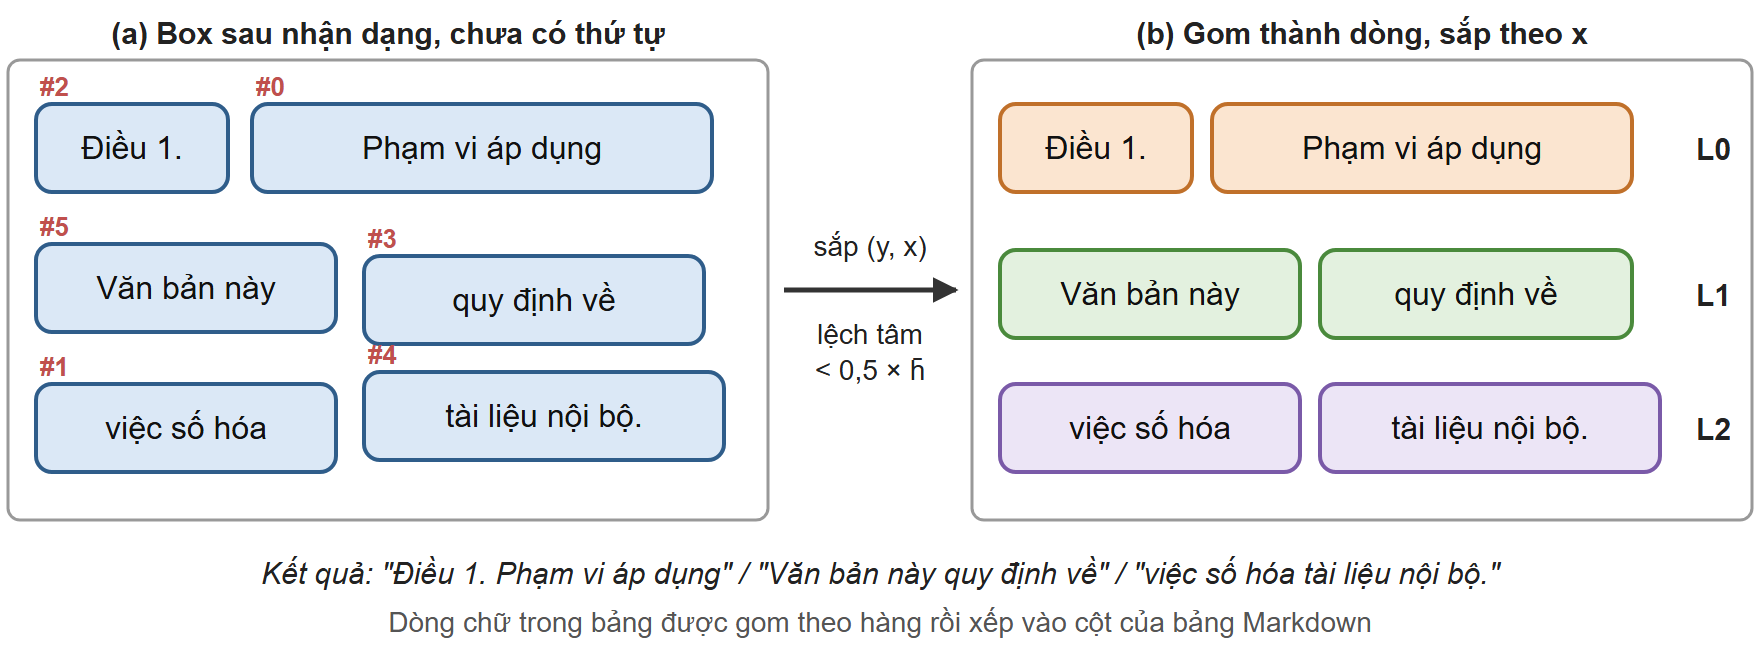
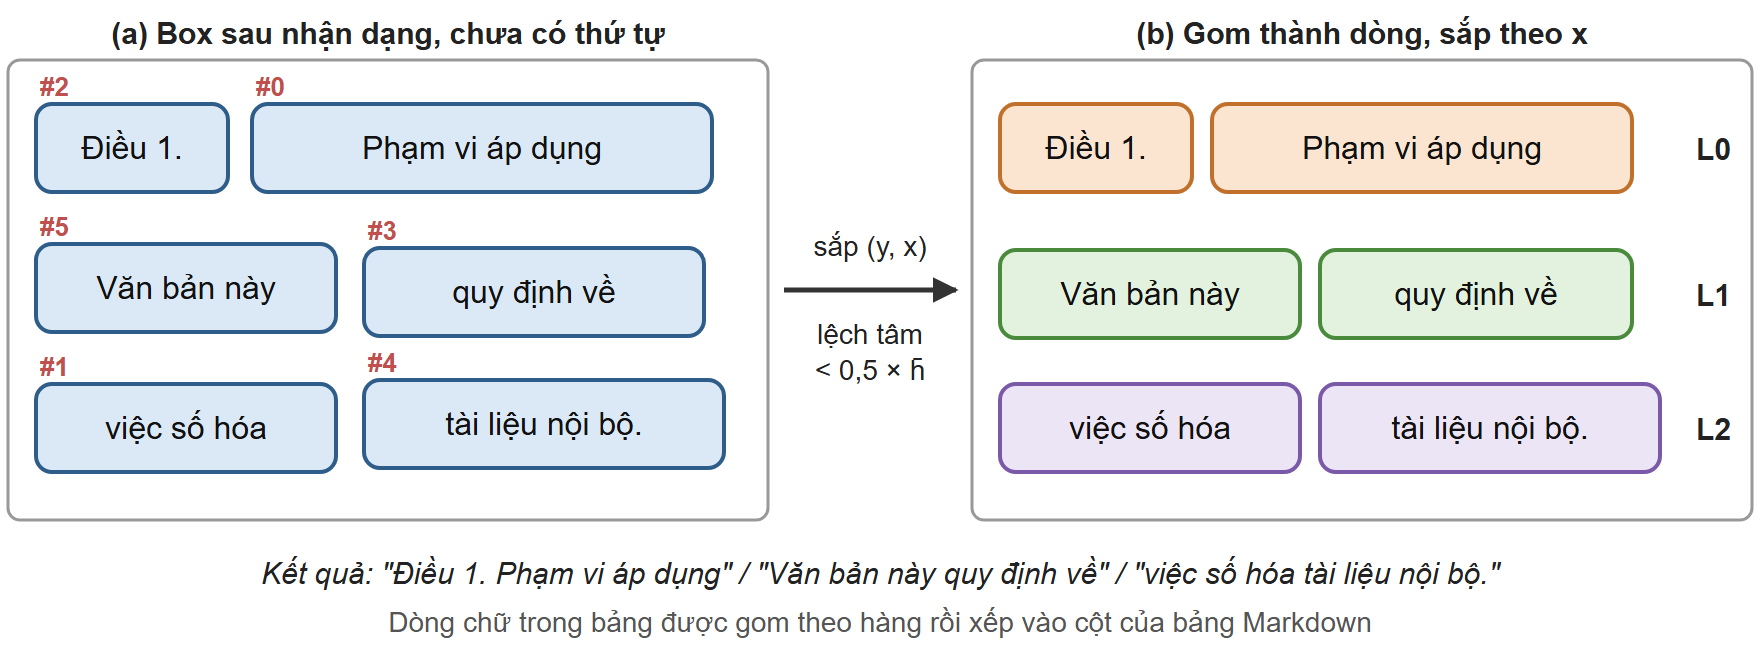
Hình vẽ báo cáo: DFD cân bằng với biểu đồ ngữ cảnh, phân tầng đúng chiều phụ thuộc, biểu đồ hoạt động đủ nút quyết định
- Hình 2-4: thêm tiến trình 6.0 Tra cứu kết quả, tác nhân Hệ thống nguồn và Quản trị viên, luồng 3.0 -> 5.0, errors/
- Hình 2-5: nút quyết định loại vùng, nút hợp nhánh, nhánh PDF hỏng
- Hình 2-6: Kafka và MinIO cùng ở tầng hạ tầng dưới cùng
- Hình 1-2 (mới có mã nguồn), 1-5, 2-10, 2-15, 2-16, 3-1, 3-3: sửa nhãn, bố cục
- AGENT_HANDOFF: mục 7b13

diff --git a/docs/hinh_ve/fig2_5.html b/docs/hinh_ve/fig2_5.html
@@ -1,55 +1,75 @@
 <!doctype html><html><head><meta charset="utf-8"><script src="dg.js"></script></head><body>
 <script>
-const g = new Dg(880, 896);
+const g = new Dg(880, 1100);
 const lanes = [['Người dùng /', 'Web UI'], ['NiFi +', 'Preprocess'], ['Layout +', 'PaddleOCR'], ['VietOCR'], ['Reconstruct', '+ Merge']];
 const LW = 176, cx = i => i * LW + LW / 2;
 lanes.forEach((l, i) => {
-  g.raw(`<rect x="${i * LW + 1}" y="1" width="${LW - 2}" height="892" fill="${i % 2 ? '#fafafa' : '#fff'}" stroke="#bbb" stroke-width="1.5"/>`);
+  g.raw(`<rect x="${i * LW + 1}" y="1" width="${LW - 2}" height="1096" fill="${i % 2 ? '#fafafa' : '#fff'}" stroke="#bbb" stroke-width="1.5"/>`);
   g.raw(`<rect x="${i * LW + 1}" y="1" width="${LW - 2}" height="54" fill="#e8e8e8" stroke="#bbb" stroke-width="1.5"/>`);
   g.text(cx(i), l.length > 1 ? 24 : 34, l, { fs: 15, a: 'middle', bold: true, lh: 19 });
 });
-const N = (i, y, t, h = 54) => g.box(cx(i) - 74, y, 148, h, t, { c: 'yellow', fs: 14, title: false, lh: 17 });
-// làn 0
-g.raw(`<circle cx="${cx(0)}" cy="80" r="10" fill="#111"/>`);
-const n1 = N(0, 104, ['Chọn, tải', 'lên PDF']);
-g.line([[cx(0), 90], [cx(0), n1.y - 2]]);
-const dy = 214;
-g.raw(`<path d="M${cx(0)},${dy - 26} l26,26 l-26,26 l-26,-26 z" fill="#fff" stroke="#333" stroke-width="2"/>`);
-g.line([[cx(0), n1.b], [cx(0), dy - 28]]);
-g.text(cx(0) + 32, dy - 8, 'hợp lệ?', { fs: 14 });
-g.line([[cx(0) - 26, dy], [26, dy], [26, 262]]);
-g.text(24, dy - 8, 'không', { fs: 14 });
-g.raw(`<circle cx="26" cy="274" r="11" fill="#fff" stroke="#111" stroke-width="2"/><circle cx="26" cy="274" r="6" fill="#111"/>`);
-g.text(6, 304, 'lỗi 400/413', { fs: 14 });
-const n2 = N(0, 330, ['Lưu', 'raw/<id>.pdf']);
-g.line([[cx(0), dy + 26], [cx(0), n2.y - 2]]);
-g.text(cx(0) + 6, dy + 46, 'có', { fs: 14 });
-// làn 1
-const n3 = N(1, 330, ['ListS3 phát hiện,', 'Fetch tệp']);
+const N = (i, y, t, h = 48) => g.box(cx(i) - 74, y, 148, h, t, { c: 'yellow', fs: 14, title: false, lh: 17 });
+// Nút quyết định / hợp nhánh (hình thoi), trả về các đỉnh
+const D = (x, y) => { g.raw(`<path d="M${x},${y - 26} l26,26 l-26,26 l-26,-26 z" fill="#fff" stroke="#333" stroke-width="2"/>`); return { x, y, t: y - 26, b: y + 26, l: x - 26, r: x + 26 }; };
+const fin = (x, y) => g.raw(`<circle cx="${x}" cy="${y}" r="12" fill="#fff" stroke="#111" stroke-width="2"/><circle cx="${x}" cy="${y}" r="7" fill="#111"/>`);
+const guard = (x, y, t, a = 'middle') => g.text(x, y, t, { fs: 13, a, halo: true, color: '#333' });
+// Làn 0: tải lên và kiểm tra đầu vào
+g.raw(`<circle cx="${cx(0)}" cy="76" r="10" fill="#111"/>`);
+const n1 = N(0, 100, ['Chọn, tải', 'lên PDF']);
+g.line([[cx(0), 86], [cx(0), n1.y - 2]]);
+const d1 = D(cx(0), 196);
+g.line([[cx(0), n1.b], [cx(0), d1.t - 2]]);
+g.text(d1.r + 6, 188, 'hợp lệ?', { fs: 14 });
+g.line([[d1.l, 196], [26, 196], [26, 244]]);
+guard(6, 188, '[không]', 'start');
+fin(26, 258);
+g.text(6, 290, 'lỗi 400/413', { fs: 14 });
+const n2 = N(0, 318, ['Lưu', 'raw/<id>.pdf']);
+g.line([[cx(0), d1.b], [cx(0), n2.y - 2]]);
+guard(cx(0) + 6, 250, '[có]', 'start');
+// Làn 1: NiFi tiếp nhận, gọi tiền xử lý
+const n3 = N(1, 318, ['ListS3 phát hiện,', 'Fetch tệp']);
 g.line([[n2.r, n2.cy], [n3.x - 2, n3.cy]]);
-const n4 = N(1, 416, ['POST /process:', 'PDF → PNG', 'từng trang'], 64);
+const n4 = N(1, 396, ['POST /process:', 'PDF → PNG', 'từng trang'], 60);
 g.line([[cx(1), n3.b], [cx(1), n4.y - 2]]);
-const n5 = N(1, 512, ['Lưu page_N.png,', 'gửi image-arrived']);
-g.line([[cx(1), n4.b], [cx(1), n5.y - 2]]);
-// làn 2
-const n6 = N(2, 512, ['YOLO phát hiện', 'vùng bố cục']);
+const d2 = D(cx(1), 500);
+g.line([[cx(1), n4.b], [cx(1), d2.t - 2]]);
+// PDF hỏng: NiFi ghi errors/<id>.json, giao diện hiện trạng thái Lỗi
+const nE = N(0, 476, ['Thấy "Lỗi" + lý do', '(errors/<id>.json)']);
+g.line([[d2.l, 500], [nE.r + 2, 500]]);
+guard((d2.l + nE.r) / 2, 492, '[PDF hỏng]');
+g.line([[cx(0), nE.b], [cx(0), 546]]);
+fin(cx(0), 560);
+const n5 = N(1, 554, ['Lưu page_N.png,', 'gửi image-arrived']);
+g.line([[cx(1), d2.b], [cx(1), n5.y - 2]]);
+guard(cx(1) + 6, 544, '[đọc được]', 'start');
+// Làn 2: bố cục, cắt dòng
+const n6 = N(2, 554, ['YOLO phát hiện', 'vùng bố cục']);
 g.line([[n5.r, n5.cy], [n6.x - 2, n6.cy]]);
-const n7 = N(2, 614, ['DBNet cắt dòng;', 'lưu hình, bảng']);
+const n7 = N(2, 632, ['DBNet cắt dòng;', 'lưu hình, bảng']);
 g.line([[cx(2), n6.b], [cx(2), n7.y - 2]]);
-// làn 3, 4
-const n8 = N(3, 614, ['Nhận dạng', 'theo lô']);
-g.line([[n7.r, n7.cy], [n8.x - 2, n8.cy]]);
-const n9 = N(4, 614, ['Gom box', 'theo trang']);
-g.line([[n8.r, n8.cy], [n9.x - 2, n9.cy]]);
-g.line([[cx(2) + 40, n7.y], [cx(2) + 40, 590], [cx(4), 590], [cx(4), n9.y - 2]], { dash: true, color: '#c0702a' });
-g.text(cx(3), 580, ['hình, bảng, trang rỗng:', 'gửi thẳng ocr-completed'], { fs: 13, a: 'middle', color: '#c0702a', halo: true, lh: 15 });
-const n10 = N(4, 700, ['Gom dòng, ghi', 'text/ + JSON']);
+const d3 = D(cx(2), 722);
+g.line([[cx(2), n7.b], [cx(2), d3.t - 2]]);
+g.text(d3.l - 6, 718, 'loại', { fs: 13, a: 'end' });
+g.text(d3.l - 6, 734, 'vùng?', { fs: 13, a: 'end' });
+// Làn 3: nhận dạng dòng chữ
+const n8 = N(3, 698, ['Nhận dạng', 'theo lô']);
+g.line([[d3.r, 722], [n8.x - 2, 722]]);
+guard((d3.r + n8.x) / 2, 742, '[dòng chữ]');
+// Làn 4: hợp nhánh, tái cấu trúc, ghép
+const m = D(cx(4), 800);
+g.line([[n8.r, 722], [cx(4), 722], [cx(4), m.t - 2]]);
+g.line([[cx(2), d3.b], [cx(2), 800], [m.l - 2, 800]]);
+guard(600, 792, '[hình, bảng, trang rỗng]');
+const n9 = N(4, 852, ['Gom box', 'theo trang']);
+g.line([[cx(4), m.b], [cx(4), n9.y - 2]]);
+const n10 = N(4, 926, ['Gom dòng, ghi', 'text/ + JSON']);
 g.line([[cx(4), n9.b], [cx(4), n10.y - 2]]);
-const n11 = N(4, 780, ['Ghép trang', '→ final/<id>/']);
+const n11 = N(4, 1000, ['Ghép trang', '→ final/<id>/']);
 g.line([[cx(4), n10.b], [cx(4), n11.y - 2]]);
-const n12 = N(0, 780, ['Xem, tải', 'kết quả']);
+const n12 = N(0, 1000, ['Xem, tải', 'kết quả']);
 g.line([[n11.x, n11.cy], [n12.r + 2, n12.cy]], { label: 'merge-completed; Web UI đọc final/', at: [440, n11.cy - 8], lfs: 14 });
-g.line([[cx(0), n12.b], [cx(0), 854]]);
-g.raw(`<circle cx="${cx(0)}" cy="869" r="12" fill="#fff" stroke="#111" stroke-width="2"/><circle cx="${cx(0)}" cy="869" r="7" fill="#111"/>`);
+g.line([[cx(0), n12.b], [cx(0), 1064]]);
+fin(cx(0), 1078);
 g.render();
 </script></body></html>

diff --git a/docs/hinh_ve/fig2_16.html b/docs/hinh_ve/fig2_16.html
@@ -1,43 +1,46 @@
 <!doctype html><html><head><meta charset="utf-8"><script src="dg.js"></script></head><body>
 <script>
-const g = new Dg(880, 470);
-g.box(4, 4, 872, 462, [], { c: 'white', rx: 8, stroke: '#888', sw: 1.5 });
+const g = new Dg(880, 534);
+g.box(4, 4, 872, 526, [], { c: 'white', rx: 8, stroke: '#888', sw: 1.5 });
 g.box(4, 4, 872, 44, [], { c: 'blue', rx: 8, fill: '#2f5d8a', stroke: '#2f5d8a' });
 g.text(22, 32, 'OCR tiếng Việt', { fs: 18, bold: true, color: '#fff' });
-// Cột trái: tải lên + danh sách
-g.box(20, 64, 330, 78, ['Kéo thả hoặc chọn tệp PDF', '(một hoặc nhiều tệp)'], { c: 'gray', dash: true, fs: 16, title: false, fill: '#f7f9fc' });
-g.text(24, 172, 'Tài liệu', { fs: 17, bold: true });
-g.box(270, 154, 80, 28, 'Làm mới', { c: 'white', fs: 14, rx: 14, stroke: '#2f5d8a' });
-const cols = [24, 168, 286];
-['Tên', 'Trạng thái', 'Tiến độ'].forEach((h, i) => g.text(cols[i], 210, h, { fs: 15, bold: true, color: '#555' }));
-g.raw(`<line x1="20" y1="220" x2="350" y2="220" stroke="#ccc" stroke-width="1.5"/>`);
+// Ô tải lên nằm ngang phía trên, bên dưới chia hai cột như giao diện thật (Hình 3-3)
+g.box(20, 62, 840, 52, 'Kéo thả tệp PDF vào đây hoặc bấm để chọn (có thể chọn nhiều tệp)', { c: 'gray', dash: true, fs: 16, title: false, fill: '#f7f9fc' });
+const D = 64;  // các phần bên dưới dời xuống nhường chỗ cho ô tải lên
+// Cột trái: danh sách tài liệu
+g.box(20, 64 + D, 334, 390, [], { c: 'white', rx: 6, stroke: '#bbb', sw: 1.5 });
+g.text(36, 172 + D - 76, 'Tài liệu', { fs: 17, bold: true });
+g.box(262, 154 + D - 76, 80, 28, 'Làm mới', { c: 'white', fs: 14, rx: 14, stroke: '#2f5d8a' });
+const cols = [36, 170, 302];
+['Tên', 'Trạng thái', 'Tiến độ'].forEach((h, i) => g.text(cols[i], 210 + D - 76, h, { fs: 15, bold: true, color: '#555' }));
+g.raw(`<line x1="32" y1="${220 + D - 76}" x2="342" y2="${220 + D - 76}" stroke="#ccc" stroke-width="1.5"/>`);
 const R = [['hop_dong_01', 'Hoàn tất', '3/3', '#2e7d32'], ['cong_van_12', 'Đang nhận dạng', '1/2', '#c0702a'], ['hoa_don_07', 'Đang phân tích', '0/1', '#2f5d8a'], ['bao_cao_q3', 'Đang chờ NiFi', '–', '#777'], ['pdf_hong', 'Lỗi', '–', '#c0504d']];
 R.forEach((r, i) => {
-  const y = 250 + i * 40;
-  if (i === 0) g.raw(`<rect x="20" y="${y - 24}" width="330" height="36" fill="#e8f0fb"/>`);
+  const y = 250 + D - 76 + i * 40;
+  if (i === 0) g.raw(`<rect x="32" y="${y - 24}" width="310" height="36" fill="#e8f0fb"/>`);
   g.text(cols[0], y, r[0], { fs: 15 });
   g.text(cols[1], y, r[1], { fs: 14, color: r[3], bold: true });
   g.text(cols[2], y, r[2], { fs: 15 });
-  g.raw(`<line x1="20" y1="${y + 14}" x2="350" y2="${y + 14}" stroke="#eee" stroke-width="1"/>`);
+  g.raw(`<line x1="32" y1="${y + 14}" x2="342" y2="${y + 14}" stroke="#eee" stroke-width="1"/>`);
 });
 // Cột phải: kết quả
-g.box(370, 64, 494, 390, [], { c: 'white', rx: 6, stroke: '#bbb', sw: 1.5 });
-g.text(386, 96, 'Kết quả: hop_dong_01', { fs: 16, bold: true });
-g.box(574, 76, 84, 30, 'Trình bày', { c: 'blue', fs: 13, rx: 4, fill: '#2f5d8a', color: '#fff' });
-g.box(658, 76, 70, 30, 'Văn bản', { c: 'white', fs: 13, rx: 4 });
-g.box(736, 76, 38, 30, '.md', { c: 'blue', fs: 13, rx: 4 });
-g.box(777, 76, 44, 30, '.json', { c: 'white', fs: 13, rx: 4, stroke: '#2f5d8a' });
-g.box(824, 76, 34, 30, '.txt', { c: 'white', fs: 13, rx: 4, stroke: '#2f5d8a' });
-g.text(386, 140, 'TRANG 1', { fs: 13, color: '#777' });
-g.text(386, 166, 'CỘNG HÒA XÃ HỘI CHỦ NGHĨA VIỆT NAM', { fs: 15, bold: true });
-g.text(386, 192, 'HỢP ĐỒNG DỊCH VỤ', { fs: 15, bold: true });
-g.text(386, 218, 'Số: 01/2026/HĐDV', { fs: 15 });
-g.text(386, 244, ['Căn cứ Bộ luật Dân sự ngày 24/11/2015 …'], { fs: 15 });
-g.text(386, 274, '▸ Xem ảnh bảng gốc', { fs: 13, color: '#777' });
-const tx = 386, ty = 286, tw = [150, 150, 150];
+g.box(370, 64 + D, 494, 390, [], { c: 'white', rx: 6, stroke: '#bbb', sw: 1.5 });
+g.text(386, 96 + D, 'Kết quả: hop_dong_01', { fs: 16, bold: true });
+g.box(574, 76 + D, 84, 30, 'Trình bày', { c: 'blue', fs: 13, rx: 4, fill: '#2f5d8a', color: '#fff' });
+g.box(658, 76 + D, 70, 30, 'Văn bản', { c: 'white', fs: 13, rx: 4 });
+g.box(736, 76 + D, 38, 30, '.md', { c: 'blue', fs: 13, rx: 4 });
+g.box(777, 76 + D, 44, 30, '.json', { c: 'white', fs: 13, rx: 4, stroke: '#2f5d8a' });
+g.box(824, 76 + D, 34, 30, '.txt', { c: 'white', fs: 13, rx: 4, stroke: '#2f5d8a' });
+g.text(386, 140 + D, 'TRANG 1', { fs: 13, color: '#777' });
+g.text(386, 166 + D, 'CỘNG HÒA XÃ HỘI CHỦ NGHĨA VIỆT NAM', { fs: 15, bold: true });
+g.text(386, 192 + D, 'HỢP ĐỒNG DỊCH VỤ', { fs: 15, bold: true });
+g.text(386, 218 + D, 'Số: 01/2026/HĐDV', { fs: 15 });
+g.text(386, 244 + D, ['Căn cứ Bộ luật Dân sự ngày 24/11/2015 …'], { fs: 15 });
+g.text(386, 274 + D, '▸ Xem ảnh bảng gốc', { fs: 13, color: '#777' });
+const tx = 386, ty = 286 + D, tw = [150, 150, 150];
 ['Hạng mục', 'Đơn giá', 'Thành tiền'].forEach((h, i) => g.box(tx + i * 154, ty, tw[i], 30, h, { c: 'blue', fs: 14, rx: 0, sw: 1, bold: true }));
 [['Số hóa tài liệu', '2.000', '10.000.000'], ['Lưu trữ', '500', '2.500.000']].forEach((r, k) => r.forEach((c, i) => g.box(tx + i * 154, ty + 30 + k * 30, tw[i], 30, c, { c: 'white', fs: 14, rx: 0, sw: 1 })));
-g.text(386, 400, 'TRANG 2', { fs: 13, color: '#777' });
-g.text(386, 426, 'Điều 1. Phạm vi …', { fs: 15 });
+g.text(386, 400 + D, 'TRANG 2', { fs: 13, color: '#777' });
+g.text(386, 426 + D, 'Điều 1. Phạm vi …', { fs: 15 });
 g.render();
 </script></body></html>

diff --git a/docs/hinh_ve/fig2_4.html b/docs/hinh_ve/fig2_4.html
@@ -1,29 +1,45 @@
 <!doctype html><html><head><meta charset="utf-8"><script src="dg.js"></script></head><body>
 <script>
-const g = new Dg(880, 560);
-// Tiến trình xếp dọc, kho D1 bên phải, tác nhân bên trái
-const P = [['1.0', 'Tiền xử lý'], ['2.0', 'Phân tích bố cục'], ['3.0', 'Cắt dòng chữ'], ['4.0', 'Nhận dạng chữ'], ['5.0', 'Tái cấu trúc', 'và ghép trang']];
-const cx = 360, Y = i => 56 + i * 108;
-const pr = P.map((t, i) => g.ellipse(cx, Y(i), 112, 40, t, { c: 'green', fs: 15 }));
+const g = new Dg(880, 660);
+// Tiến trình xếp dọc, kho D1 bên phải, tác nhân bên trái; tác nhân và luồng vào/ra cân bằng với biểu đồ ngữ cảnh (Hình 2-1)
+const cx = 404, R = 112;
+const p6 = g.ellipse(cx, 60, R, 36, ['6.0', 'Tra cứu kết quả'], { c: 'green', fs: 15 });
+const P = [['1.0', 'Tiếp nhận và', 'tiền xử lý'], ['2.0', 'Phân tích bố cục'], ['3.0', 'Cắt dòng chữ'], ['4.0', 'Nhận dạng chữ'], ['5.0', 'Tái cấu trúc', 'và ghép trang']];
+const Y = [170, 274, 378, 482, 586];
+const pr = P.map((t, i) => g.ellipse(cx, Y[i], R, t.length > 2 ? 40 : 36, t, { c: 'green', fs: 15 }));
 const flow = ['trang mới', 'vùng bố cục', 'khóa ảnh dòng', 'chữ từng dòng'];
 for (let i = 0; i < 4; i++) {
   g.line([[cx, pr[i].b], [cx, pr[i + 1].y - 1]]);
   g.text(cx + 10, (pr[i].b + pr[i + 1].y) / 2 + 5, flow[i], { fs: 15, halo: true });
 }
-const u = g.box(4, 22, 170, 66, ['Người dùng /', 'hệ thống nguồn'], { c: 'gray', fs: 15, title: false });
-g.line([[u.r, 56], [pr[0].x - 1, 56]], { label: 'tệp PDF', at: [211, 46], lfs: 15 });
-const dst = g.box(4, 404, 170, 60, 'Hệ thống đích', { c: 'gray', fs: 15 });
-g.line([[pr[4].x + 6, Y(4) - 8], [dst.r + 1, 434]]);
-g.text(89, 488, ['kết quả số hóa,', 'sự kiện hoàn thành'], { fs: 14, a: 'middle', lh: 17 });
+// Điểm trên viền elip theo góc (độ, 0 = bên phải, chiều kim đồng hồ)
+const on = (e, deg) => [Math.round(e.cx + e.rx * Math.cos(deg * Math.PI / 180)), Math.round(e.cy + e.ry * Math.sin(deg * Math.PI / 180))];
+// Tác nhân ngoài
+const user = g.box(4, 92, 146, 52, 'Người dùng', { c: 'gray', fs: 15 });
+g.line([on(p6, 160), [user.r + 2, 104]]);
+g.text(215, 64, 'trạng thái, kết quả', { fs: 14, a: 'middle', halo: true });
+g.line([[user.r, 132], on(pr[0], 190)]);
+g.text(210, 164, 'tệp PDF', { fs: 14, a: 'middle', halo: true });
+const src = g.box(4, 196, 146, 52, 'Hệ thống nguồn', { c: 'gray', fs: 15 });
+g.line([[src.r, 222], on(pr[0], 160)]);
+g.text(158, 240, 'tệp PDF (S3 API)', { fs: 14, halo: true });
+const adm = g.box(4, 300, 146, 52, 'Quản trị viên', { c: 'gray', fs: 15 });
+g.line([[adm.r, 326], on(pr[0], 125)]);
+g.text(262, 320, 'cấu hình, giám sát', { fs: 14, a: 'middle', halo: true });
+const dst = g.box(4, 560, 146, 52, 'Hệ thống đích', { c: 'gray', fs: 15 });
+g.line([[pr[4].x, 586], [dst.r + 2, 586]]);
+g.text(77, 632, ['Markdown/JSON/TXT,', 'sự kiện hoàn thành'], { fs: 14, a: 'middle', lh: 17 });
+// Vùng hình, bảng và trang rỗng đi thẳng từ 3.0 sang 5.0, không qua nhận dạng
+g.line([[pr[2].x, 378], [256, 378], [256, 560], on(pr[4], 218)]);
+g.text(248, 462, ['hình, bảng,', 'trang rỗng'], { fs: 14, a: 'end', lh: 17 });
 // Kho dữ liệu D1
-g.raw(`<rect x="660" y="14" width="216" height="532" fill="#fdf3d0" stroke="#b8921e" stroke-width="2"/><line x1="660" y1="62" x2="876" y2="62" stroke="#b8921e" stroke-width="2"/>`);
-g.text(768, 46, 'D1  MinIO data-lake', { fs: 16, a: 'middle', bold: true });
-['raw/', 'pic/', 'crop/', 'assets/', 'text/', 'preprocessed/', 'final/'].forEach((k, i) => g.text(680, 96 + i * 26, k, { fs: 15, mono: true }));
-const st = [['ảnh trang', 'w'], ['ảnh trang', 'r'], ['ảnh dòng, ảnh bảng/hình', 'w'], ['ảnh dòng', 'r'], ['văn bản, Markdown, JSON', 'w']];
-st.forEach(([t, dir], i) => {
-  const y = Y(i);
-  if (dir === 'w') g.line([[pr[i].r, y], [658, y]]); else g.line([[658, y], [pr[i].r + 1, y]]);
-  g.text(566, y - 9, t, { fs: 14, a: 'middle', halo: true });
+g.raw(`<rect x="690" y="14" width="186" height="632" fill="#fdf3d0" stroke="#b8921e" stroke-width="2"/><line x1="690" y1="62" x2="876" y2="62" stroke="#b8921e" stroke-width="2"/>`);
+g.text(783, 46, 'D1  MinIO data-lake', { fs: 16, a: 'middle', bold: true });
+['raw/', 'pic/', 'crop/', 'assets/', 'text/', 'preprocessed/', 'final/', 'errors/'].forEach((k, i) => g.text(708, 96 + i * 26, k, { fs: 15, mono: true }));
+const st = [[p6, 'trạng thái, kết quả', 'r'], [pr[0], 'PDF gốc, ảnh trang', 'w'], [pr[1], 'ảnh trang', 'r'], [pr[2], 'ảnh dòng, ảnh bảng/hình', 'w'], [pr[3], 'ảnh dòng', 'r'], [pr[4], 'văn bản, Markdown, JSON', 'w']];
+st.forEach(([e, t, dir]) => {
+  if (dir === 'w') g.line([[e.r, e.cy], [688, e.cy]]); else g.line([[688, e.cy], [e.r + 1, e.cy]]);
+  g.text(602, e.cy - 9, t, { fs: 14, a: 'middle', halo: true });
 });
 g.render();
 </script></body></html>

diff --git a/docs/hinh_ve/fig1_5.html b/docs/hinh_ve/fig1_5.html
@@ -2,26 +2,26 @@
 <script>
 const g = new Dg(880, 345);
 const pr = g.box(15, 128, 150, 76, ['Producer', 'paddleocr-worker'], { c: 'blue', fs: 17 });
-g.box(205, 38, 420, 232, [], { c: 'white', dash: true, rx: 10, fill: '#fbfbfb' });
-g.text(415, 66, 'Topic crop-completed (Kafka, KRaft)', { fs: 17, a: 'middle', bold: true });
+g.box(205, 38, 393, 232, [], { c: 'white', dash: true, rx: 10, fill: '#fbfbfb' });
+g.text(402, 66, 'Topic crop-completed (Kafka, KRaft)', { fs: 17, a: 'middle', bold: true });
 const rows = [{ n: 'P0', y: 96 }, { n: 'P1', y: 176 }];
 for (const r of rows) {
   g.text(226, r.y + 27, r.n, { fs: 17, bold: true });
   for (let i = 0; i < 6; i++) g.box(262 + i * 52, r.y, 46, 42, String(i), { c: i < 4 ? 'green' : 'gray', fs: 17, rx: 4 });
-  g.text(580, r.y + 27, '…', { fs: 18 });
+  g.text(572, r.y + 27, '…', { fs: 18 });
 }
-g.text(415, 254, 'offset tăng dần, lưu bền vững trên đĩa', { fs: 15, a: 'middle', italic: true });
+g.text(402, 254, 'offset tăng dần, lưu bền vững trên đĩa', { fs: 15, a: 'middle', italic: true });
 g.line([[pr.r, 166], [185, 166], [185, 117], [222, 117]]);
 g.text(185, 100, 'publish', { fs: 15, a: 'middle', halo: true });
 g.line([[185, 166], [185, 197], [222, 197]]);
-g.box(650, 62, 218, 200, [], { c: 'orange', dash: true, rx: 10, fill: '#fff8f1' });
-g.text(759, 88, 'Consumer group', { fs: 16, a: 'middle', bold: true });
-g.text(759, 108, 'vietocr-group', { fs: 16, a: 'middle' });
-const c1 = g.box(665, 124, 188, 50, 'vietocr-worker', { c: 'orange', fs: 16 });
-const c2 = g.box(665, 196, 188, 50, 'vietocr-worker-2', { c: 'orange', fs: 16 });
-g.line([[600, 117], [c1.x, 149]]);
-g.text(640, 182, 'poll, commit', { fs: 14, a: 'middle', halo: true });
-g.line([[600, 197], [c2.x, 221]]);
+g.box(672, 62, 196, 200, [], { c: 'orange', dash: true, rx: 10, fill: '#fff8f1' });
+g.text(770, 88, 'Consumer group', { fs: 16, a: 'middle', bold: true });
+g.text(770, 108, 'vietocr-group', { fs: 16, a: 'middle' });
+const c1 = g.box(686, 124, 168, 50, 'vietocr-worker', { c: 'orange', fs: 16 });
+const c2 = g.box(686, 196, 168, 50, 'vietocr-worker-2', { c: 'orange', fs: 16 });
+g.line([[592, 117], [c1.x, 149]]);
+g.text(635, 166, ['poll,', 'commit'], { fs: 14, a: 'middle', halo: true, lh: 16 });
+g.line([[592, 197], [c2.x, 221]]);
 g.text(440, 302, 'Trong một consumer group, mỗi partition chỉ giao cho một consumer; nhóm khác (ví dụ', { fs: 15, a: 'middle', italic: true });
 g.text(440, 324, 'reconstruct-group trên topic ocr-completed) đọc độc lập với offset riêng.', { fs: 15, a: 'middle', italic: true });
 g.render();

diff --git a/docs/hinh_ve/fig2_6.html b/docs/hinh_ve/fig2_6.html
@@ -1,22 +1,26 @@
 <!doctype html><html><head><meta charset="utf-8"><script src="dg.js"></script></head><body>
 <script>
-const g = new Dg(880, 400);
+const g = new Dg(880, 360);
+// Tầng trên chỉ dùng tầng dưới; Kafka và MinIO là hạ tầng dùng chung nên cùng nằm ở đáy
 const L = [
-  { n: ['Giao diện &', 'tiếp nhận'], c: 'purple', items: [['web_ui', '(FastAPI, :8501)'], ['Hệ thống nguồn', '(S3 API)']] },
+  { n: ['Giao diện'], c: 'purple', items: [['Trang web', '(HTML, JavaScript)'], ['web_ui API', '(FastAPI, :8501)']] },
   { n: ['Điều phối'], c: 'blue', items: [['Apache NiFi', '(11 processor)'], ['Preprocess', '(FastAPI, :5000)']] },
-  { n: ['Thông điệp'], c: 'orange', items: [['Apache Kafka – 6 topic']] },
   { n: ['AI worker'], c: 'green', items: [['layout'], ['paddleocr'], ['vietocr'], ['reconstruct'], ['merge']] },
-  { n: ['Lưu trữ'], c: 'yellow', items: [['MinIO data-lake'], ['Docker volume']] }
+  { n: ['Hạ tầng', 'dùng chung'], c: 'gray', items: [['Thông điệp', 'Apache Kafka – 6 topic'], ['Lưu trữ', 'MinIO data-lake, Docker volume']], sub: ['orange', 'yellow'] }
 ];
-const x0 = 6, w = 800, h = 66, gap = 12, lw = 140;
+const x0 = 6, w = 800, h = 66, gap = 14, lw = 140;
 L.forEach((l, i) => {
   const y = 8 + i * (h + gap);
   g.box(x0, y, w, h, [], { c: l.c, rx: 8 });
   g.text(x0 + 14, y + h / 2 + 6 - (l.n.length - 1) * 10, l.n, { fs: 16, bold: true, lh: 20 });
   const n = l.items.length, iw = (w - lw - 14 - (n - 1) * 8) / n;
-  l.items.forEach((it, k) => g.box(x0 + lw + k * (iw + 8), y + 9, iw, h - 18, it, { c: 'white', fs: 16, title: false, stroke: PAL[l.c][1] }));
+  l.items.forEach((it, k) => {
+    const c = l.sub ? l.sub[k] : null;
+    g.box(x0 + lw + k * (iw + 8), y + 9, iw, h - 18, it, c ? { c, fs: 16, lh: 19 } : { c: 'white', fs: 16, title: false, stroke: PAL[l.c][1] });
+  });
   if (i < L.length - 1) g.line([[x0 + w + 36, y + 20], [x0 + w + 36, y + h + gap + 20]]);
 });
-g.raw(`<text x="866" y="200" font-size="15" fill="#333" text-anchor="middle" transform="rotate(90 866 200)">phụ thuộc một chiều</text>`);
+g.raw(`<text x="866" y="166" font-size="15" fill="#333" text-anchor="middle" transform="rotate(90 866 166)">phụ thuộc một chiều</text>`);
+g.text(406, 346, 'web_ui chỉ đọc, ghi MinIO; các worker không gọi nhau mà chỉ nối qua Kafka và MinIO.', { fs: 14, a: 'middle', italic: true, color: '#444' });
 g.render();
 </script></body></html>

diff --git a/docs/hinh_ve/fig3_1.html b/docs/hinh_ve/fig3_1.html
@@ -1,4 +1,4 @@
-<!doctype html><html><head><meta charset="utf-8"><style>html,body{margin:0;background:#fff}.t{display:inline-block;background:#0c0c0c;border-radius:8px;padding:0 0 14px;font:19px/1.45 Consolas,"Courier New",monospace;color:#cccccc}.bar{background:#2b2b2b;color:#ddd;font:15px Arial,sans-serif;padding:7px 14px;border-radius:8px 8px 0 0}pre{margin:10px 18px 0 18px;padding-right:18px;font:inherit;white-space:pre}.c{color:#f9f1a5}.h{color:#fff;font-weight:700}.u{color:#16c60c}</style></head><body><div class="t"><div class="bar">Windows PowerShell</div><pre>PS ...\OCR_pipeline&gt; <span class="c">docker compose ps --format "table {{.Name}}\t{{.Image}}\t{{.Status}}"</span>
+<!doctype html><html><head><meta charset="utf-8"><style>html,body{margin:0;background:#fff}.t{display:block;background:#0c0c0c;border-radius:8px;padding:0 0 14px;font:18px/1.45 Consolas,"Courier New",monospace;color:#cccccc}.bar{background:#2b2b2b;color:#ddd;font:15px Arial,sans-serif;padding:7px 14px;border-radius:8px 8px 0 0}pre{margin:10px 18px 0 18px;padding-right:18px;font:inherit;white-space:pre}.c{color:#f9f1a5}.h{color:#fff;font-weight:700}.u{color:#16c60c}</style></head><body><div class="t"><div class="bar">Windows PowerShell</div><pre>PS ...\OCR_pipeline&gt; <span class="c">docker compose ps --format "table {{.Name}}\t{{.Image}}\t{{.Status}}"</span>
 <span class="h">NAME                 IMAGE                                      STATUS</span>
 kafka                apache/kafka:3.7.0                         <span class="u">Up 11 hours (healthy)</span>
 layout-worker        layout-worker-cpu                          <span class="u">Up 2 hours</span>

diff --git a/docs/hinh_ve/fig1_2.html b/docs/hinh_ve/fig1_2.html
@@ -1,0 +1,17 @@
+<!doctype html><html><head><meta charset="utf-8"><script src="dg.js"></script></head><body>
+<script>
+const g = new Dg(880, 200);
+// Bộ trọng số docstructbench huấn luyện ở imgsz 1024: ảnh được co giữ tỉ lệ, cạnh dài 1024, phần thiếu đệm thêm
+const B = [
+  [['Ảnh trang', 'cạnh dài 1024', '(giữ tỉ lệ)'], 'gray'],
+  [['Backbone', 'CNN trích xuất', 'đặc trưng'], 'blue'],
+  [['Neck', 'FPN / PAN', 'đa tỉ lệ'], 'blue'],
+  [['Head', 'tọa độ hộp +', 'xác suất lớp'], 'green'],
+  [['Vùng bố cục', 'title, text,', 'figure, table…'], 'orange']
+];
+const w = 150, gap = 26, x0 = (880 - (5 * w + 4 * gap)) / 2;
+const bx = B.map(([t, c], i) => g.box(x0 + i * (w + gap), 18, w, 112, t, { c, fs: 17, title: false, lh: 22 }));
+for (let i = 0; i < 4; i++) g.line([[bx[i].r, 74], [bx[i + 1].x - 1, 74]]);
+g.text(440, 170, 'Dự đoán trong một lượt lan truyền; hồi quy hộp bằng L_box = 1 − CIoU', { fs: 15, a: 'middle', italic: true, color: '#333' });
+g.render();
+</script></body></html>

diff --git a/docs/hinh_ve/fig2_10.html b/docs/hinh_ve/fig2_10.html
@@ -17,6 +17,7 @@ drawSeq({
     { f: "vietocr-\nworker", t: "Kafka", l: "poll(≤ 4)", k: "sync" },
     { f: "Kafka", t: "vietocr-\nworker", l: "crop-completed", k: "ret" },
     { f: "vietocr-\nworker", t: "MinIO", l: "get_object(crop)", k: "sync" },
+    { f: "MinIO", t: "vietocr-\nworker", l: "ảnh dòng", k: "ret" },
     { f: "vietocr-\nworker", t: "vietocr-\nworker", l: "predict_batch", k: "self" },
     { f: "vietocr-\nworker", t: "Kafka", l: "ocr-completed {text}", k: "async" },
     { end: true },
@@ -30,7 +31,7 @@ drawSeq({
     { frag: "loop", cond: "mỗi trang, đến khi đủ total_pages", over: ["Kafka", "MinIO"] },
     { f: "merge-\nworker", t: "Kafka", l: "poll()", k: "sync" },
     { f: "Kafka", t: "merge-\nworker", l: "document-completed", k: "ret" },
-    { f: "merge-\nworker", t: "MinIO", l: "put final/<id>/ .md .json .txt", k: "sync" },
+    { f: "merge-\nworker", t: "MinIO", l: "put final/<id>/", k: "sync" },
     { f: "merge-\nworker", t: "Kafka", l: "merge-completed", k: "async" },
     { end: true }
   ]

diff --git a/docs/hinh_ve/fig2_15.html b/docs/hinh_ve/fig2_15.html
@@ -6,8 +6,8 @@ g.box(4, 30, 380, 230, [], { c: 'white', rx: 6, stroke: '#999', sw: 1.5 });
 g.text(194, 22, '(a) Box sau nhận dạng, chưa có thứ tự', { fs: 15, a: 'middle', bold: true });
 const A = [
   ['#2', 'Điều 1.', 18, 52, 96], ['#0', 'Phạm vi áp dụng', 126, 52, 230],
-  ['#5', 'Văn bản này', 18, 122, 150], ['#3', 'quy định về', 182, 128, 170],
-  ['#1', 'việc số hóa', 18, 192, 150], ['#4', 'tài liệu nội bộ.', 182, 186, 180]
+  ['#5', 'Văn bản này', 18, 122, 150], ['#3', 'quy định về', 182, 124, 170],
+  ['#1', 'việc số hóa', 18, 192, 150], ['#4', 'tài liệu nội bộ.', 182, 190, 180]
 ];
 A.forEach(([id, t, x, y, w]) => { g.box(x, y, w, 44, t, { c: 'blue', fs: 16 }); g.text(x + 2, y - 4, id, { fs: 13, color: '#c0504d', bold: true }); });
 g.line([[392, 145], [478, 145]], { sw: 2.5 });
